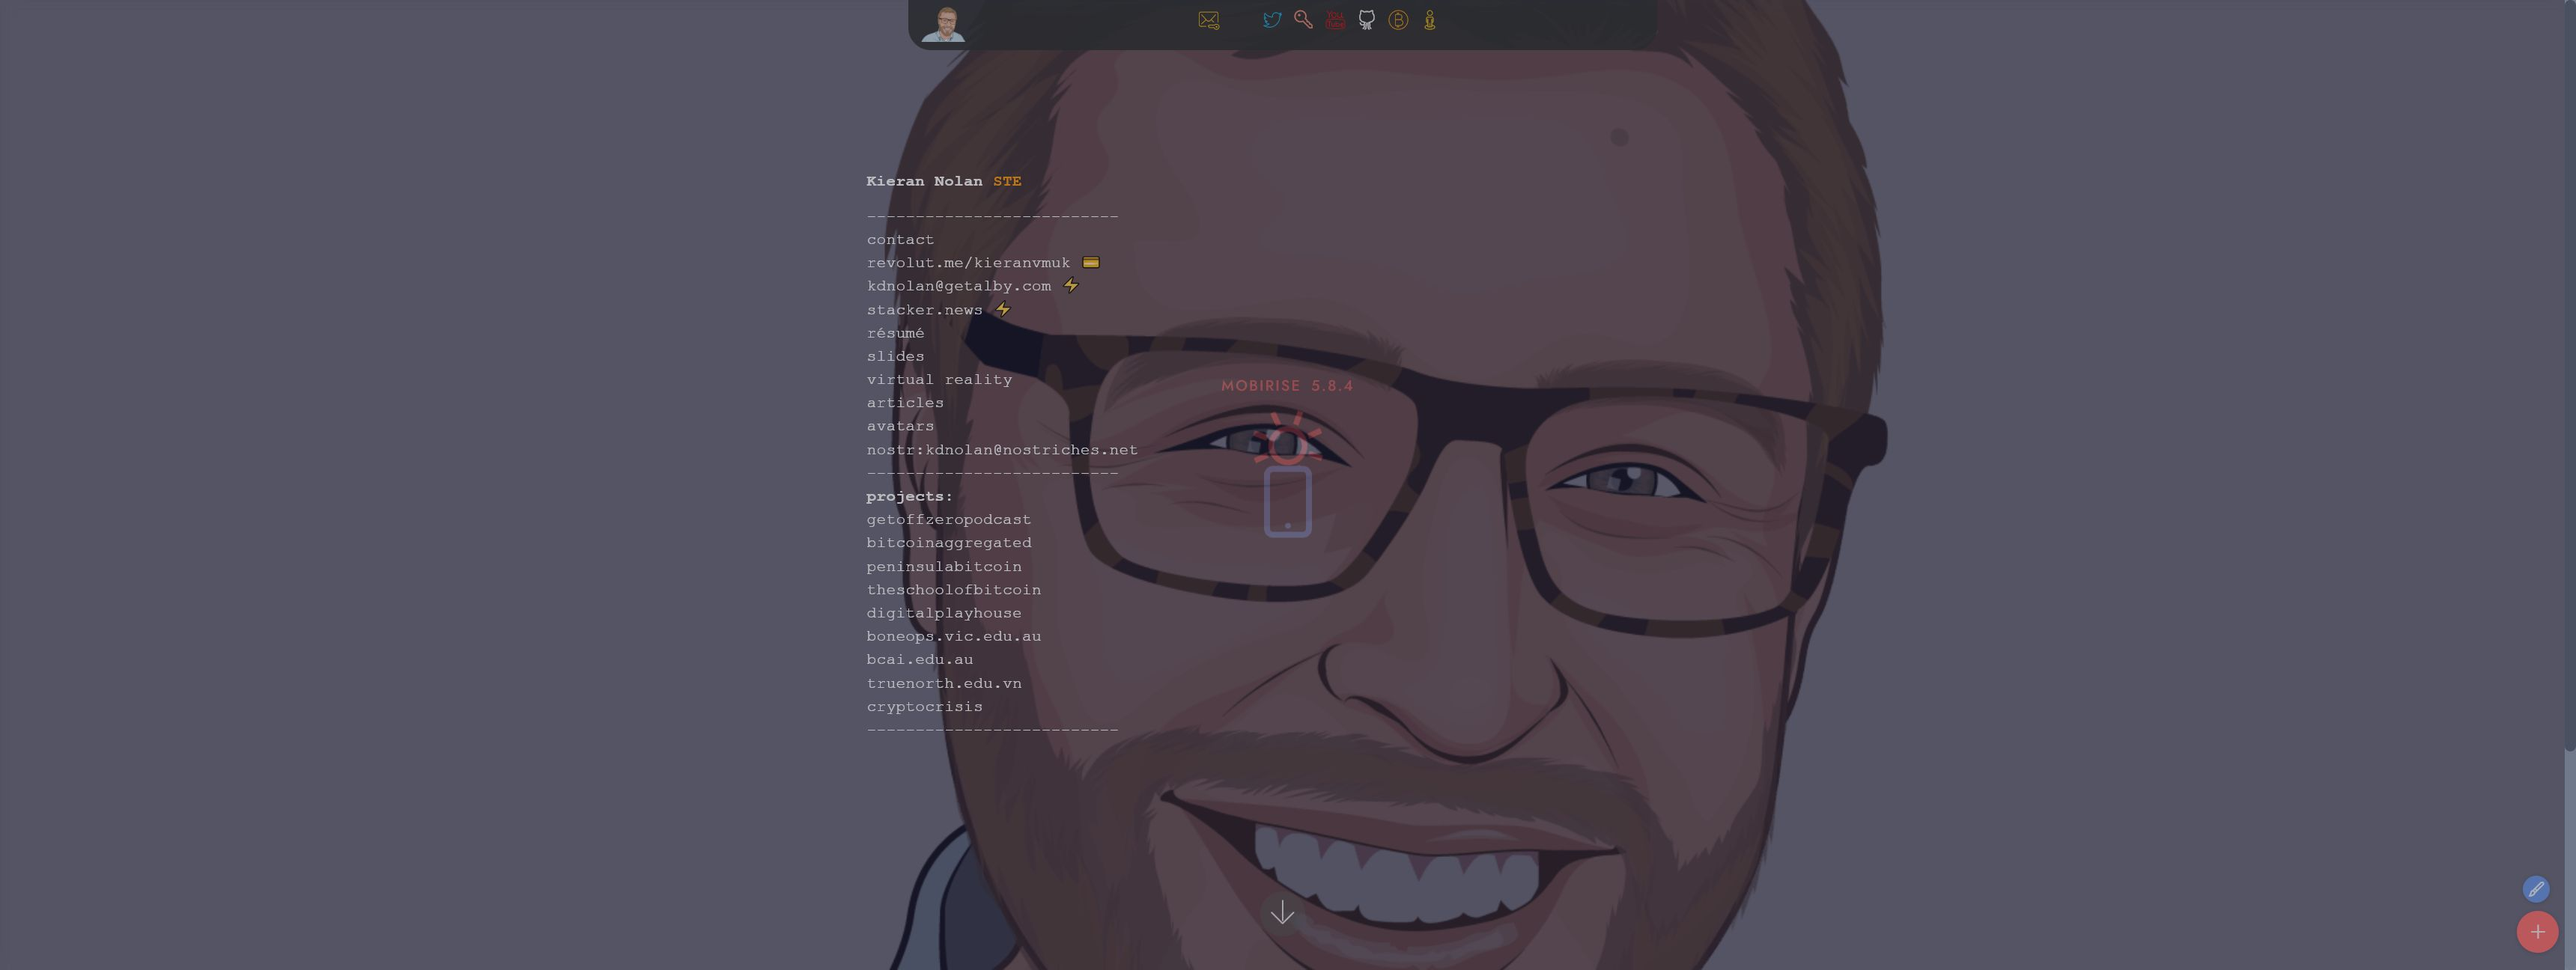
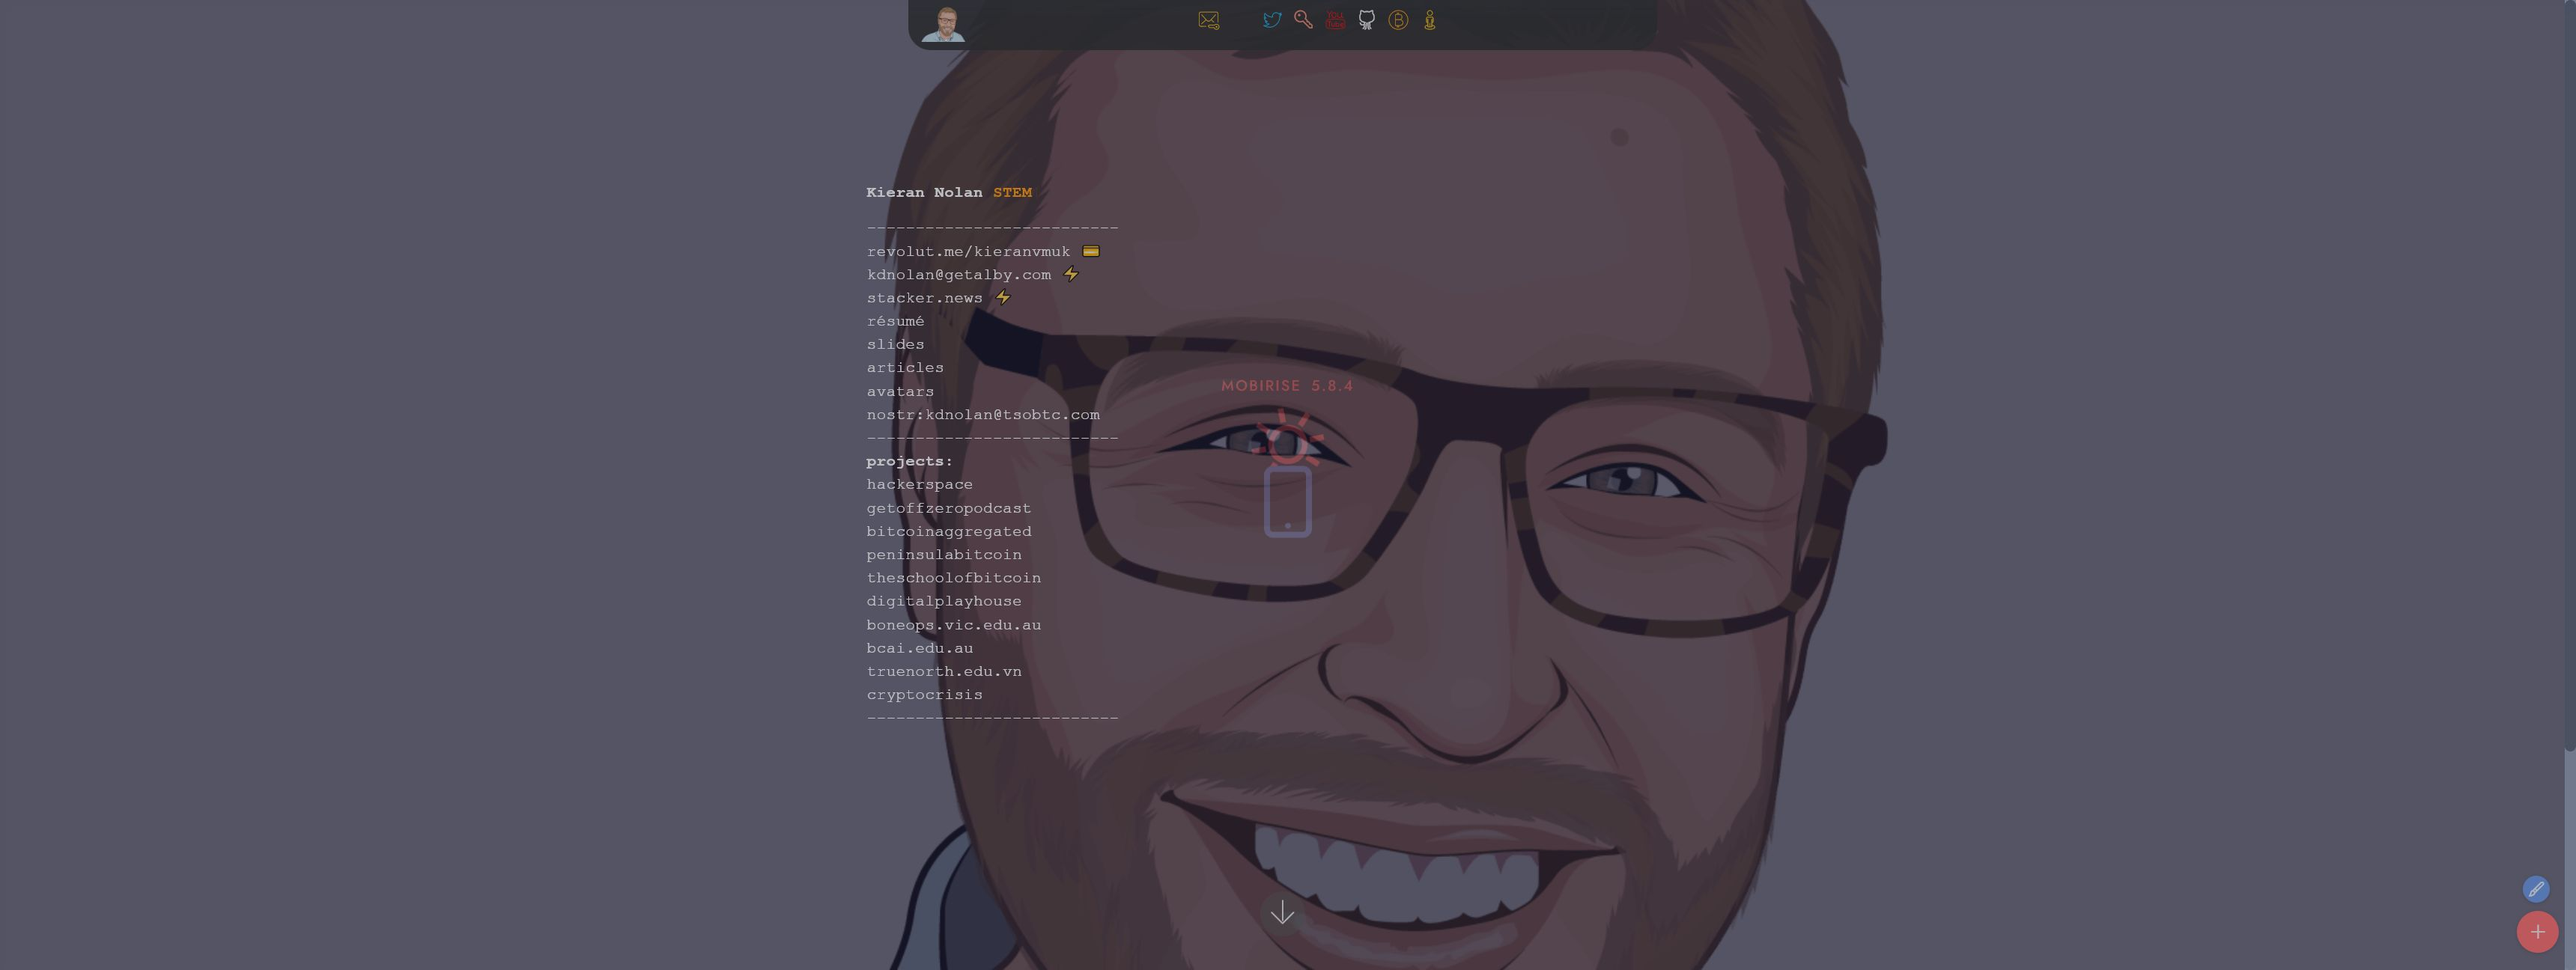
⚡
⚡

Changed region(s): [[0.3422, 0.2469, 0.4355, 0.7407], [0.3422, 0.1852, 0.4044, 0.216], [0.4977, 0.4321, 0.5288, 0.463]]

diff --git a/index.html b/index.html
@@ -108,7 +108,7 @@
                     </span>
                 </div>
                 <p class="mbr-section-text mbr-fonts-style display-5">--------------------------
-<br><a href="https://revolut.me/kieranvmuk" class="text-primary" target="_blank">revolut.me/kieranvmuk</a>&nbsp;💳<br><a href="https://getalby.com/p/kdnolan" class="text-primary" target="_blank">kdnolan@getalby.com&nbsp;⚡<br></a><a href="https://stacker.news/KieranDNolan/posts" class="text-primary" target="_blank">stacker.news ⚡<br></a><a href="https://docs.google.com/document/d/e/2PACX-1vSJ3lUSlqyzEbDo2WYMuaCoPWlIEa_Dltg2NgMmwRnxJEwSH9Kfty-wHGQbAZDOrDtfyUymXv8UziGx/pub" class="text-primary" target="_blank">résumé</a><br><a href="https://docs.google.com/presentation/d/1yaAbm6C0uJMXCiRQ0T747UlyXtKg3DUhZP5X2WHOKWc/edit?usp=drive_link" class="text-primary" target="_blank">slides</a><br><strong><a href="https://github.com/kdnolan/kdnolan.github.io/tree/master/articles" class="text-primary" target="_blank">articles</a></strong><br><a href="https://github.com/kdnolan/kdnolan.github.io/tree/master/avatars" class="text-primary" target="_blank">avatars</a><br><a href="https://nosta.me/c13fd3810b2a1872688d61e0a08d672dcfd4e1f01aadd16aa324b7f0b46236ea" class="text-primary" target="_blank">nostr:kdnolan@tsobtc.com</a><br>--------------------------<br><strong>projects:<br></strong><a href="https://github.com/kdnolan/Hacker.Space" class="text-primary" target="_blank">hackerspace</a><br><a href="https://getoffzeropod.com/" class="text-primary" target="_blank">getoffzeropodcast</a><br><a href="https://bitcoinaggregated.com/" class="text-primary" target="_blank">bitcoinaggregated</a><br><a href="http://peninsulabitcoin.com" class="text-primary" target="_blank">peninsulabitcoin</a><a href="https://getoffzeropod.com/" class="text-primary" target="_blank"><br></a><a href="https://theschoolofbitcoin.com/" class="text-primary" target="_blank">theschoolofbitcoin</a><br><a href="https://www.digitalplayhouse.com.au/digital-playhouse-foundation" class="text-primary" target="_blank">digitalplayhouse</a>&nbsp;<br><a href="https://boneops.vic.edu.au/" class="text-primary" target="_blank">boneops.vic.edu.au</a><br><a href="https://www.bcai.edu.au/" class="text-primary" target="_blank">bcai.edu.au</a><br><a href="http://truenorth.edu.vn/our-school" class="text-primary" target="_blank">truenorth.edu.vn<br></a><a href="https://store.steampowered.com/app/1022320/Crypto_Crisis_Education_Edition/" class="text-primary" target="_blank">cryptocrisis</a><br>--------------------------
+<br><a href="https://revolut.me/kieranvmuk" class="text-primary" target="_blank">revolut.me/kieranvmuk</a>&nbsp;💳<br><a href="https://getalby.com/p/kdnolan" class="text-primary" target="_blank">kdnolan@getalby.com&nbsp;⚡<br></a><a href="https://stacker.news/KieranDNolan/posts" class="text-primary" target="_blank">stacker.news ⚡<br></a><a href="https://docs.google.com/document/d/e/2PACX-1vSJ3lUSlqyzEbDo2WYMuaCoPWlIEa_Dltg2NgMmwRnxJEwSH9Kfty-wHGQbAZDOrDtfyUymXv8UziGx/pub" class="text-primary" target="_blank">résumé</a><br><a href="https://docs.google.com/presentation/d/1yaAbm6C0uJMXCiRQ0T747UlyXtKg3DUhZP5X2WHOKWc/edit?usp=drive_link" class="text-primary" target="_blank">slides</a><br><strong><a href="https://github.com/kdnolan/kdnolan.github.io/tree/master/articles" class="text-primary" target="_blank">articles</a></strong><br><a href="https://github.com/kdnolan/kdnolan.github.io/tree/master/avatars" class="text-primary" target="_blank">avatars</a><br><a href="https://nosta.me/c13fd3810b2a1872688d61e0a08d672dcfd4e1f01aadd16aa324b7f0b46236ea" class="text-primary" target="_blank">nostr:kdnolan@tsobtc.com</a><br>--------------------------<br><strong>projects:<br></strong><a href="https://stacker.news/boneohackerspace/all" class="text-primary" target="_blank">hackerspace</a>&nbsp;⚡<br><a href="https://getoffzeropod.com/" class="text-primary" target="_blank">getoffzeropodcast</a><br><a href="https://bitcoinaggregated.com/" class="text-primary" target="_blank">bitcoinaggregated</a><br><a href="http://peninsulabitcoin.com" class="text-primary" target="_blank">peninsulabitcoin</a><a href="https://getoffzeropod.com/" class="text-primary" target="_blank"><br></a><a href="https://theschoolofbitcoin.com/" class="text-primary" target="_blank">theschoolofbitcoin</a><br><a href="https://www.digitalplayhouse.com.au/digital-playhouse-foundation" class="text-primary" target="_blank">digitalplayhouse</a>&nbsp;<br><a href="https://boneops.vic.edu.au/" class="text-primary" target="_blank">boneops.vic.edu.au</a><br><a href="https://www.bcai.edu.au/" class="text-primary" target="_blank">bcai.edu.au</a><br><a href="http://truenorth.edu.vn/our-school" class="text-primary" target="_blank">truenorth.edu.vn<br></a><a href="https://store.steampowered.com/app/1022320/Crypto_Crisis_Education_Edition/" class="text-primary" target="_blank">cryptocrisis</a><br>--------------------------
 <br><br><br><strong><a href="http://rocketshoes.io" class="text-primary" target="_blank"><br></a></strong><br><strong><a href="http://rocketshoes.io" class="text-primary" target="_blank"><br></a></strong><a href="http://kdnolan.hns.to" class="text-primary" target="_blank" style=""><br></a><br></p>
                 
             </div>

diff --git a/webdev.html b/webdev.html
@@ -88,9 +88,9 @@
 
 <section class="slider1 cid-tveSm9BzEp mbr-fullscreen" id="slider1-1r">
     
-    <div class="carousel slide carousel-fade" id="tN2P535piR" data-ride="carousel" data-interval="5000">
+    <div class="carousel slide carousel-fade" id="tNHY8aiEJT" data-ride="carousel" data-interval="5000">
        <ol class="carousel-indicators">
-            <li data-slide-to="0" class="active" data-target="#tN2P535piR"></li><li data-slide-to="1" class="" data-target="#tN2P535piR"></li><li data-slide-to="2" class="" data-target="#tN2P535piR"></li><li data-slide-to="3" class="" data-target="#tN2P535piR"></li><li data-slide-to="4" class="" data-target="#tN2P535piR"></li>
+            <li data-slide-to="0" class="active" data-target="#tNHY8aiEJT"></li><li data-slide-to="1" class="" data-target="#tNHY8aiEJT"></li><li data-slide-to="2" class="" data-target="#tNHY8aiEJT"></li><li data-slide-to="3" class="" data-target="#tNHY8aiEJT"></li><li data-slide-to="4" class="" data-target="#tNHY8aiEJT"></li>
             
             
         </ol>
@@ -168,11 +168,11 @@
             
             
         </div>
- <a class="carousel-control carousel-control-prev" role="button" data-slide="prev" href="#tN2P535piR">
+ <a class="carousel-control carousel-control-prev" role="button" data-slide="prev" href="#tNHY8aiEJT">
             <span class="mobi-mbri mobi-mbri-left" aria-hidden="true"></span>
             <span class="sr-only">Previous</span>
         </a>
-        <a class="carousel-control carousel-control-next" role="button" data-slide="next" href="#tN2P535piR">
+        <a class="carousel-control carousel-control-next" role="button" data-slide="next" href="#tNHY8aiEJT">
             <span class="mobi-mbri mobi-mbri-right" aria-hidden="true"></span>
             <span class="sr-only">Next</span>
         </a>
